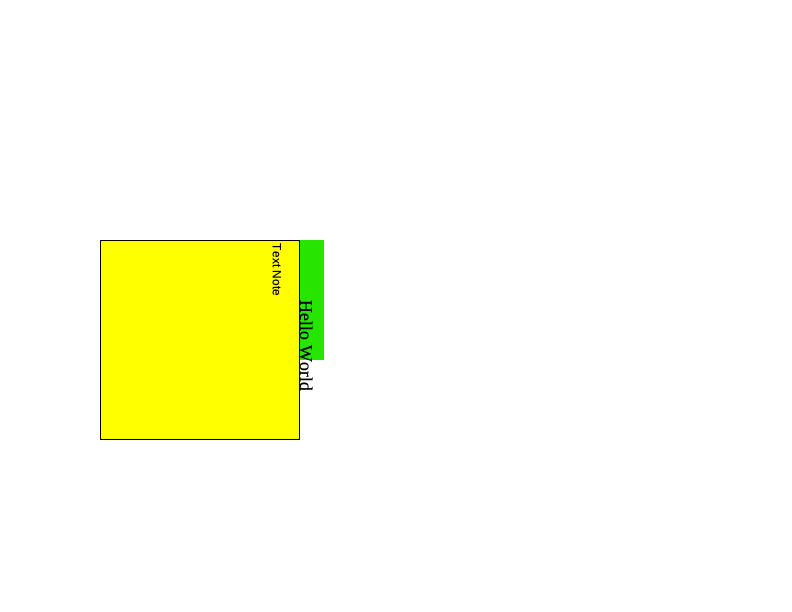
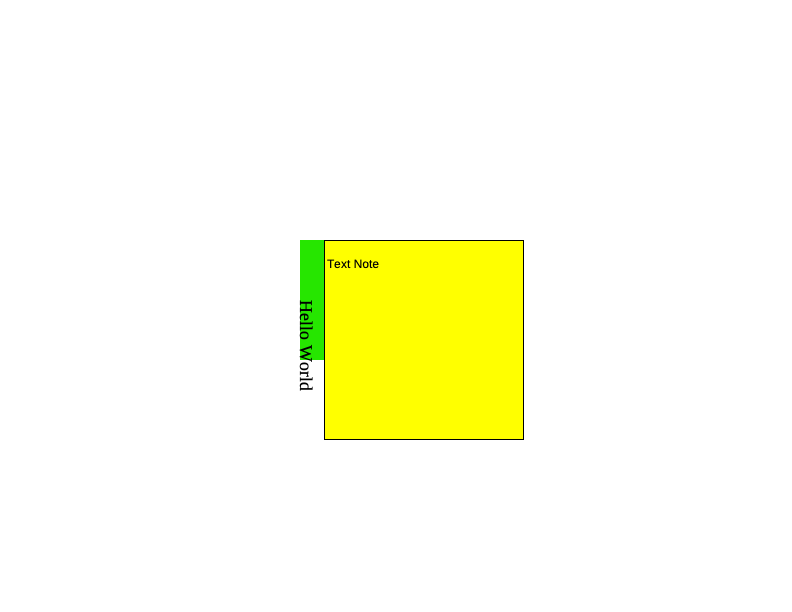
Fix missing NoRotate in popup annotations
Annotation popups were missing the 'NoRotate' flag.

This commit adds it and also performs out of bound checks by calculating
where the popup will be after the rotations (one page, one top left of
the annotation rect) and translating it accordingly.

This commit deliberately omits the also missing 'NoZoom' flag.

Bug: 504284794

Changed region(s): [[0.1212, 0.3725, 0.6667, 0.7451]]

diff --git a/core/fpdfdoc/cpdf_annotlist.cpp b/core/fpdfdoc/cpdf_annotlist.cpp
@@ -100,24 +100,82 @@ std::unique_ptr<CPDF_Annot> CreatePopupAnnot(CPDF_Document* document,
 
   CFX_FloatRect rect = pParentDict->GetRectFor(pdfium::annotation::kRect);
   rect.Normalize();
-  CFX_FloatRect popupRect(0, 0, 200, 200);
-  // Note that if the popup can set its own dimensions, then we will need to
-  // make sure that it isn't larger than the page size.
-  if (rect.left + popupRect.Width() > pPage->GetPageWidth() &&
-      rect.bottom - popupRect.Height() < 0) {
-    // If the annotation is on the bottom-right corner of the page, then place
-    // the popup above and to the left of the annotation.
-    popupRect.Translate(rect.right - popupRect.Width(), rect.top);
-  } else {
-    // Place the popup below and to the right of the annotation without getting
-    // clipped by page edges.
-    popupRect.Translate(
-        std::min(rect.left, pPage->GetPageWidth() - popupRect.Width()),
-        std::max(rect.bottom - popupRect.Height(), 0.f));
+
+  // Define the pivot point so that it does not overlap `rect` after the
+  // `NoRotate` counter-rotation.
+  CFX_PointF pivot;
+  switch (pPage->GetPageRotation() % 4) {
+    case 1:
+      pivot = CFX_PointF(rect.left, rect.top);
+      break;
+    case 2:
+      pivot = CFX_PointF(rect.right, rect.top);
+      break;
+    case 3:
+      pivot = CFX_PointF(rect.right, rect.bottom);
+      break;
+    default:
+      pivot = CFX_PointF(rect.left, rect.bottom);
+      break;
   }
 
+  const float popupSize = 200;
+  CFX_FloatRect popupRect(pivot.x, pivot.y - popupSize, pivot.x + popupSize,
+                          pivot.y);
+
+  const float pageWidth = pPage->GetPageWidth();
+  const float pageHeight = pPage->GetPageHeight();
+  // Define the page rotation matrix, but without flipping the Y axis.
+  // The result is 'user space' coordinates after rotation.
+  CFX_Matrix pageRotationM;
+  switch (pPage->GetPageRotation() % 4) {
+    case 1:
+      pageRotationM = CFX_Matrix(0, -1, 1, 0, 0, pageHeight);
+      break;
+    case 2:
+      pageRotationM = CFX_Matrix(-1, 0, 0, -1, pageWidth, pageHeight);
+      break;
+    case 3:
+      pageRotationM = CFX_Matrix(0, 1, -1, 0, pageWidth, 0);
+      break;
+    default:
+      pageRotationM = CFX_Matrix(1, 0, 0, 1, 0, 0);
+      break;
+  }
+  CFX_FloatRect rotatedRect = pageRotationM.TransformRect(rect);
+  CFX_FloatRect rotatedPopupRect = pageRotationM.TransformRect(popupRect);
+  CFX_PointF rotatedPivot = pageRotationM.Transform(pivot);
+
+  CFX_Matrix pivotRotationM{};
+  // Rotation matrix around the popup rect's pivot point.
+  pivotRotationM.Translate(-rotatedPivot.x, -rotatedPivot.y);
+  pivotRotationM.Rotate(FXSYS_PI / 2 * pPage->GetPageRotation());
+  pivotRotationM.Translate(rotatedPivot.x, rotatedPivot.y);
+  rotatedPopupRect = pivotRotationM.TransformRect(rotatedPopupRect);
+
+  // Check bounds
+  CFX_PointF rotatedNewPos = rotatedPivot;
+  if (rotatedPopupRect.bottom < 0) {
+    rotatedNewPos.y = rotatedRect.top + popupSize;
+  }
+  if (rotatedPopupRect.top > pageHeight) {
+    rotatedNewPos.y = rotatedRect.bottom - popupSize;
+  }
+  if (rotatedPopupRect.left < 0) {
+    rotatedNewPos.x = rotatedRect.right + popupSize;
+  }
+  if (rotatedPopupRect.right > pageWidth) {
+    rotatedNewPos.x = rotatedRect.left - popupSize;
+  }
+
+  CFX_PointF newPos = pageRotationM.GetInverse().Transform(rotatedNewPos);
+  popupRect.Translate(newPos.x - pivot.x, newPos.y - pivot.y);
   pAnnotDict->SetRectFor(pdfium::annotation::kRect, popupRect);
-  pAnnotDict->SetNewFor<CPDF_Number>(pdfium::annotation::kF, 0);
+
+  uint32_t flags = 0;
+  flags |= pdfium::annotation_flags::kNoRotate;
+  pAnnotDict->SetNewFor<CPDF_Number>(pdfium::annotation::kF,
+                                     static_cast<int>(flags));
 
   auto pPopupAnnot =
       std::make_unique<CPDF_Annot>(std::move(pAnnotDict), document);
